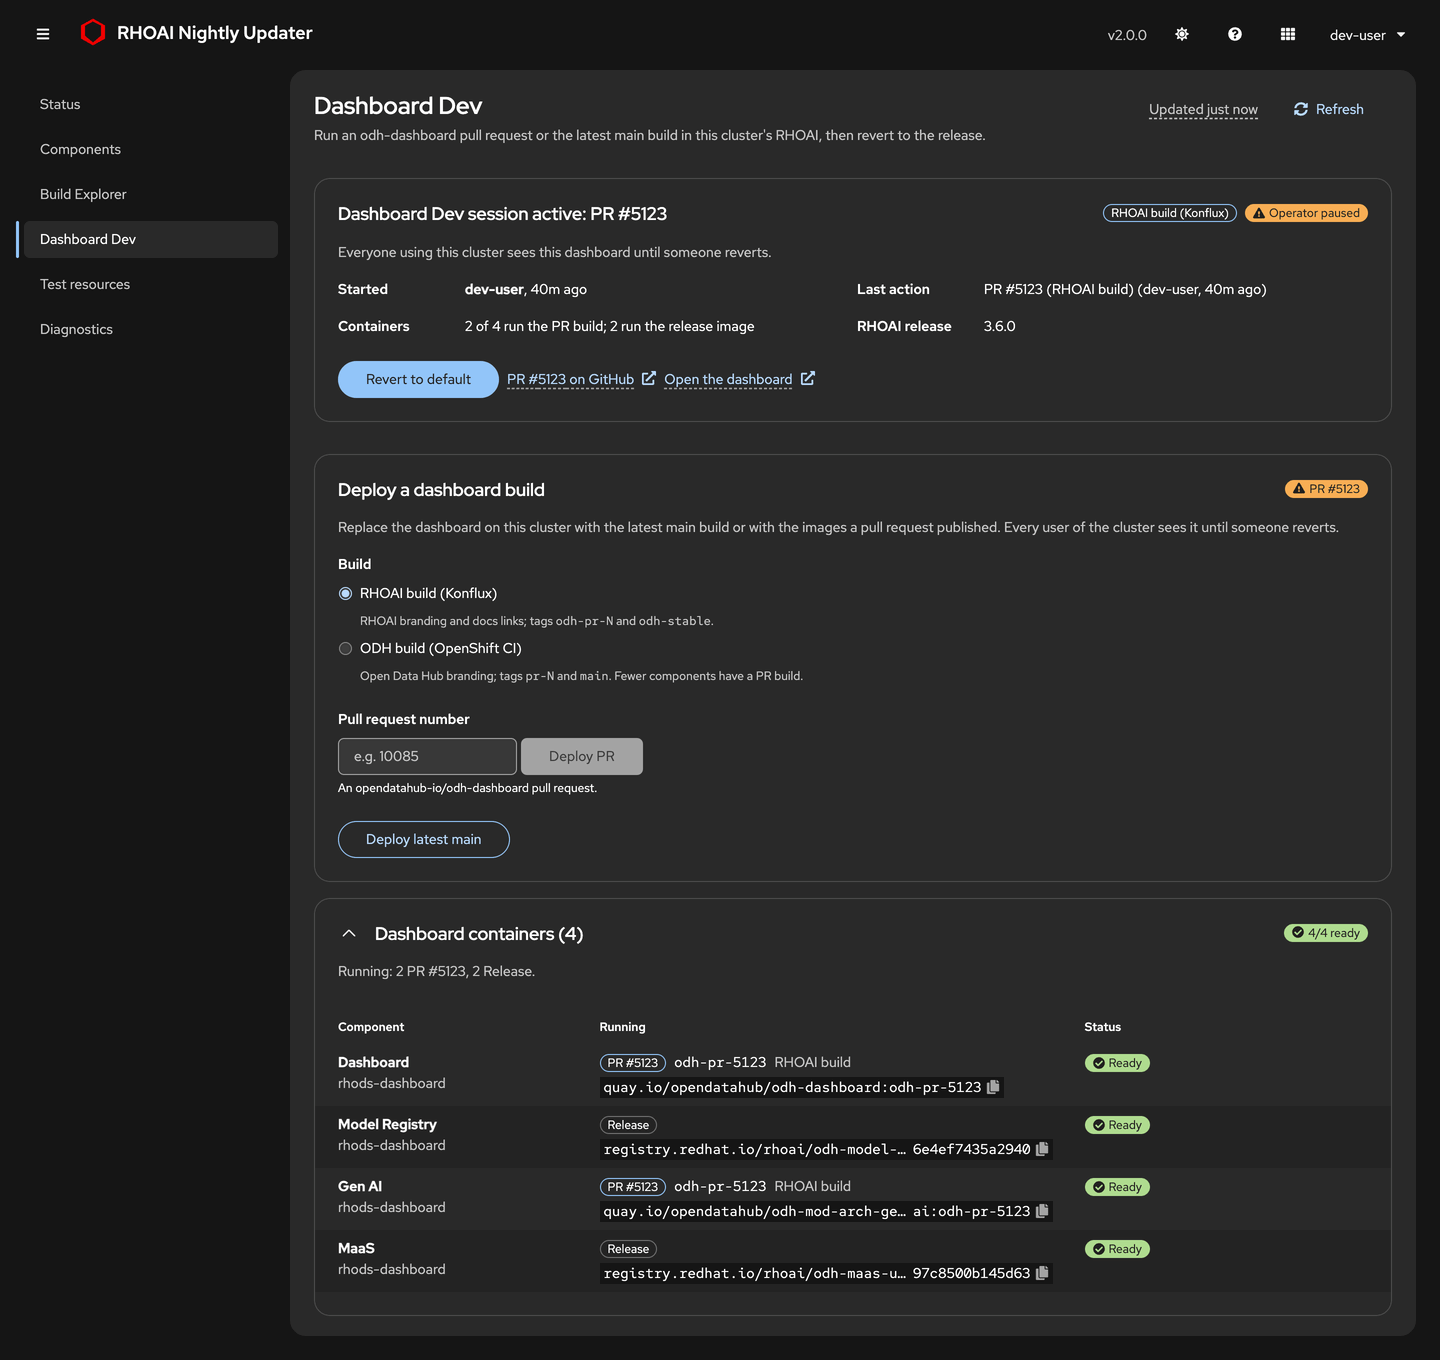
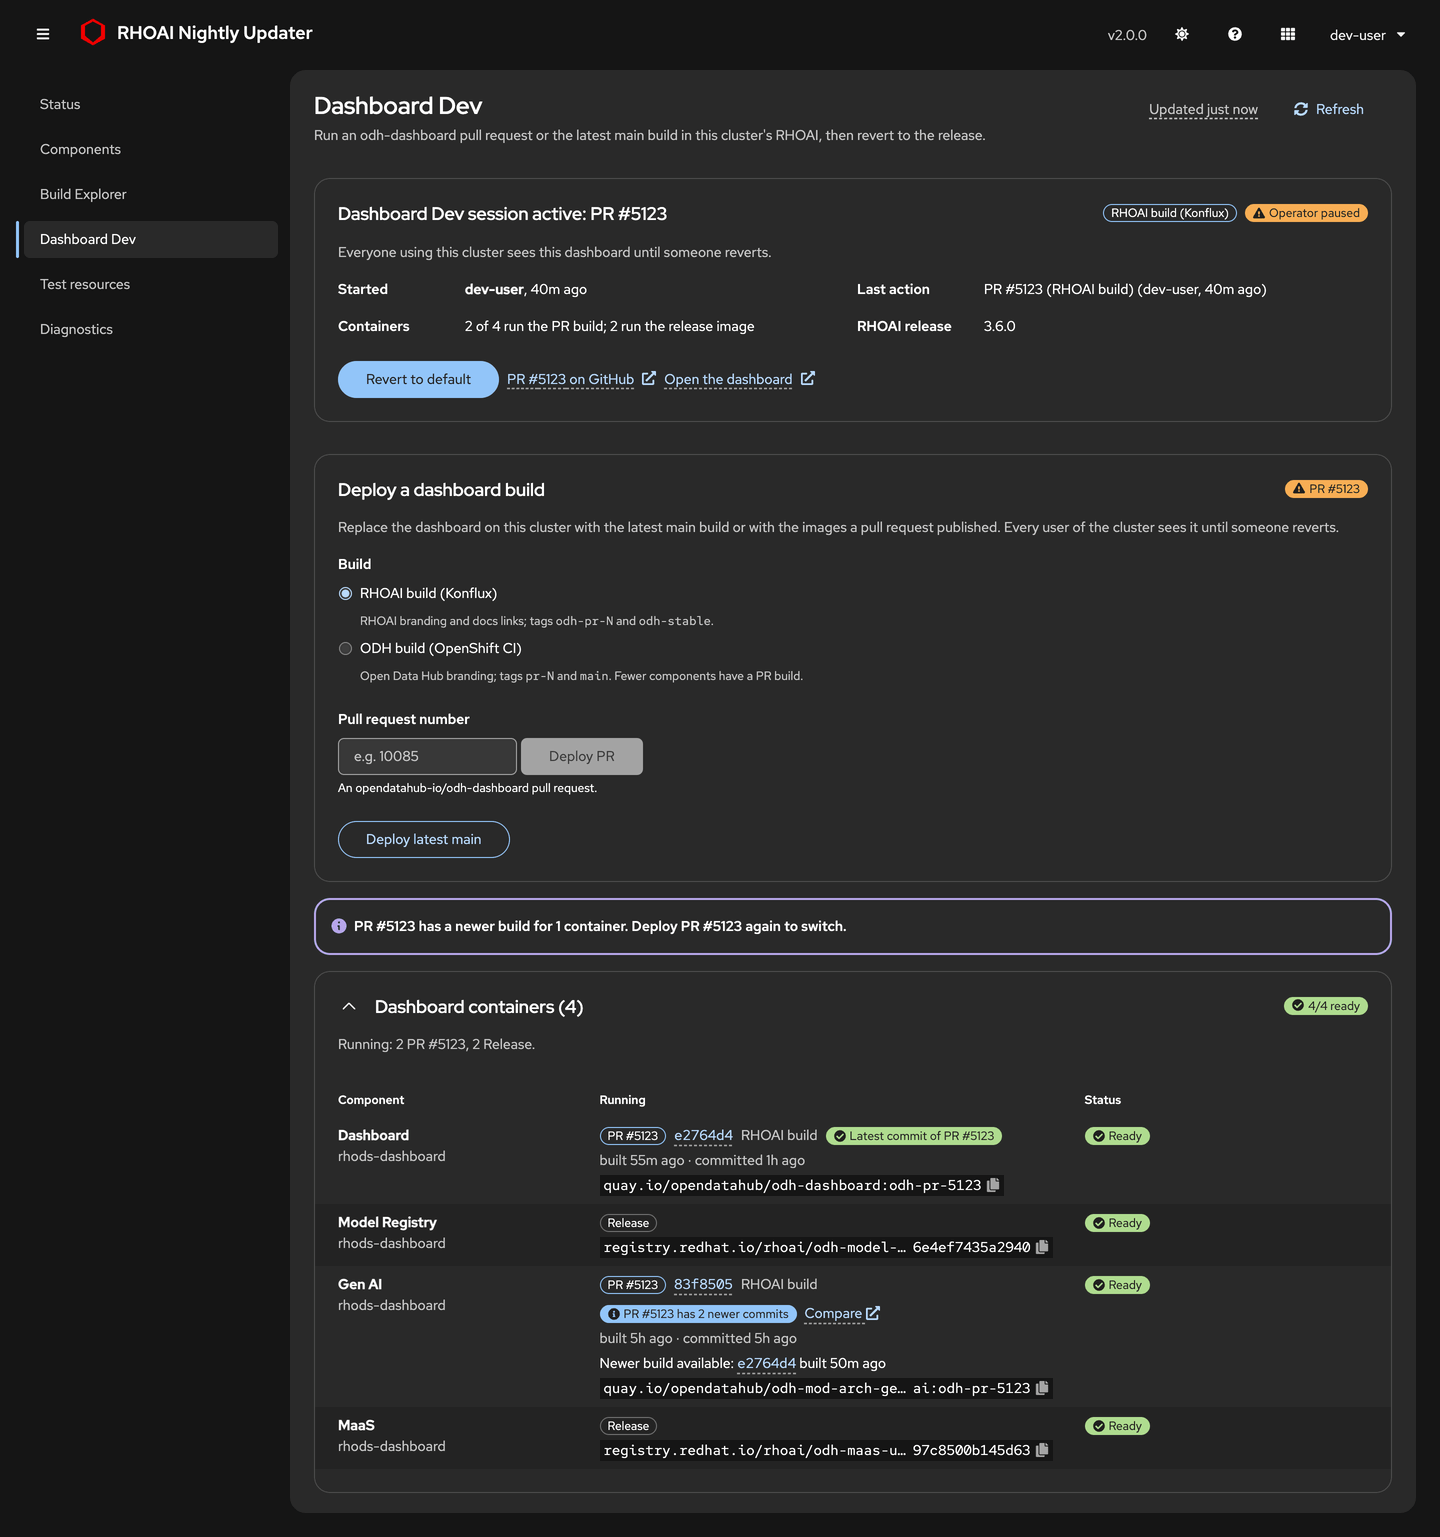
Docs: the containers card on Dashboard Dev
README shows the containers card of a Dashboard Dev session with its
commits, distance from the PR and a newer build (dashboard-dev-builds.png,
callouts 3 and 4), and says that Deploy latest main pins the commit tag
and that the distance from main shares the GitHub quota with PR search.
The Dashboard Dev page images are regenerated for the new card; the
Diagnostics page images pick up the API versions check that the mock
already had.

diff --git a/docs/tools/capture.js b/docs/tools/capture.js
@@ -350,6 +350,17 @@ async (page) => {
         ],
         pad: 24,
       });
+      // The containers card: gen-ai-ui runs a commit two pushes behind the
+      // PR, and its odh-pr tag has moved on to a newer build.
+      const containers = card("Dashboard containers (4)");
+      const genAI = containers.getByRole("row").filter({ hasText: "Gen AI" }).first();
+      await crop("dashboard-dev-builds", [alert("has a newer build"), containers], {
+        notes: [
+          { at: label(genAI, "newer commits"), n: 3, pos: "l" },
+          { at: genAI.getByText("Newer build available"), n: 4, pos: "l" },
+        ],
+        pad: 24,
+      });
     },
 
     async resources() {

diff --git a/README.md b/README.md
@@ -62,7 +62,12 @@ Every nightly tag on Quay: filter, see the contents of a build, compare it with 
 1. Who deployed which build, and when. Everyone on the cluster sees this dashboard until someone reverts.
 2. **Revert to default** restores the release images.
 
-It deploys RHOAI Konflux builds (`odh-pr-<N>`, `odh-stable`) or ODH OpenShift CI builds (`pr-<N>`, `main`). The containers card shows the commit each container runs, how far it is behind upstream `main` (or the PR's latest commit), and tells you when a newer build exists under the same tag.
+<img src="docs/images/dashboard-dev-builds.png" alt="The Dashboard containers card: the commit each container runs, how far it is behind the PR, and a newer build of the same tag" width="760">
+
+3. The commit each container runs, when it was built, and how far it is behind upstream `main` (or the PR's latest commit), with a link to the comparison on GitHub.
+4. The tag has moved on to a newer build. **Deploy PR** or **Deploy latest main** again switches to it.
+
+It deploys RHOAI Konflux builds (`odh-pr-<N>`, `odh-stable`) or ODH OpenShift CI builds (`pr-<N>`, `main`). **Deploy latest main** pins the build under its commit tag (`:<commit>@sha256:...`), so the cluster names the commit it runs even after the `main` or `odh-stable` tag has moved on.
 
 ### Test resources: S3 storage, pipeline servers, MLflow
 
@@ -163,7 +168,7 @@ Each re-checks its precondition right before acting and reports "Nothing to do" 
 
 Type `#123` or `PR 123` to see which nightlies contain a merged opendatahub-io/odh-dashboard PR. The tool checks up to 40 builds. A build "contains" the PR when its dashboard commit includes the PR's merge commit (GitHub compare in red-hat-data-services/odh-dashboard). **Limitation:** a PR that reached a release branch only as a cherry-pick has a different SHA, so it shows as *not contained*.
 
-GitHub allows 60 unauthenticated requests per hour **per egress IP**, which every user of the pod shares. One uncached search costs about one call per build. Answers are cached, so repeats are free. Set a `GITHUB_TOKEN` (5000/hour); without it, once the limit is hit, commit dates stay blank and PR search reports the rate limit until GitHub's reset time.
+GitHub allows 60 unauthenticated requests per hour **per egress IP**, which every user of the pod shares. One uncached search costs about one call per build. Answers are cached, so repeats are free. Dashboard Dev's "commits behind main" uses the same quota, one call per container. Set a `GITHUB_TOKEN` (5000/hour); without it, once the limit is hit, commit dates stay blank, PR search reports the rate limit until GitHub's reset time, and Dashboard Dev shows *Distance from main unknown*.
 
 ## Configuration
 
@@ -179,7 +184,7 @@ Environment variables of the `app` container. The template sets the first group;
 | `SUBSCRIPTION_ENV_ALLOWLIST`, `GITOPS_ADMISSION_POLICY` | `DISABLE_DSC_CONFIG`; `<APP_NAME>-<NAMESPACE>-gitops` | gitops profile only: the environment variables the RHOAI Subscription's `spec.config.env` may set (the chart sets it from `gitops.subscriptionEnvAllowlist`), and the admission policy Update needs in place ([GITOPS.md §11](docs/GITOPS.md#the-admission-policy)) |
 | `IMAGE_REPOSITORY`, `RELEASES_URL` | the Quay repository, the GitLab releases page | the update check: the highest `vX.Y.Z` tag of the repository, and where its release notes are; an empty `IMAGE_REPOSITORY` turns it off |
 | `INSTALLER_RELEASES_URL` | unset: `RELEASES_URL`, except that the default GitLab project maps to its public GitHub mirror (`https://github.com/DaoDaoNoCode/rhoai-nightly-updater/releases`), whose assets download without a sign-in | the releases page the update notice's install command downloads `install.sh` from: a GitHub (`https://github.com/<owner>/<repo>/releases`) or GitLab (`https://<host>/<project>/-/releases`) releases page. Not a template parameter; set it on the `app` container. A value of another shape, or with characters outside `A-Z a-z 0-9 . _ ~ / -` (and a `:port`), shows no command, only the release notes |
-| `GITHUB_TOKEN` | unset | GitHub API token for commit dates and PR search. A read-only fine-grained token with public-repository read access is enough |
+| `GITHUB_TOKEN` | unset | GitHub API token for commit dates, PR search and Dashboard Dev's distance from `main`. A read-only fine-grained token with public-repository read access is enough |
 | `SEAWEEDFS_IMAGE` | pinned `ghcr.io/chrislusf/seaweedfs@sha256:...` (4.48) | the S3 storage image, for example a mirror; must be a SeaweedFS 4.x whose `weed mini` reads `WEED_ADMIN_*`. `MINIO_IMAGE` is no longer read |
 | `MINIO_ROOT_USER`, `MINIO_ROOT_PASSWORD` | random per install, kept in `minio/minio-secret` | S3 access key and secret key (the secret key is also the admin UI password); the names are kept from MinIO |
 | `STABLE_SOURCE`, `STABLE_CHANNEL` | `redhat-operators`, detected | the catalog and channel used for "stable" |
